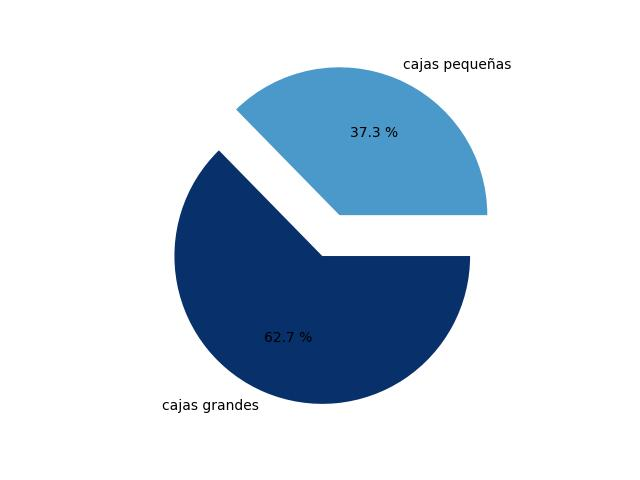
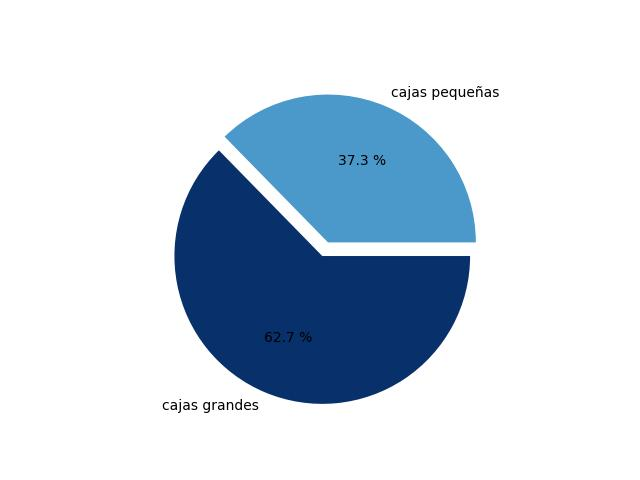
Make it better

Changed region(s): [[0.3438, 0.125, 0.8125, 0.5312], [0.5312, 0.3125, 0.625, 0.3438]]

diff --git a/main.py b/main.py
@@ -51,7 +51,7 @@ def index():
         i+=1
     plt.savefig("static/Ejemplo3.jpg")
     plt.close()
-    desfase = (0.2, 0.1)
+    desfase = (0, 0.1)
     plt.pie(datos,labels=ejex,autopct="%0.1f %%",colors=colores,explode=desfase)
     plt.savefig("static/Ejemplo4.jpg")
     plt.close()
